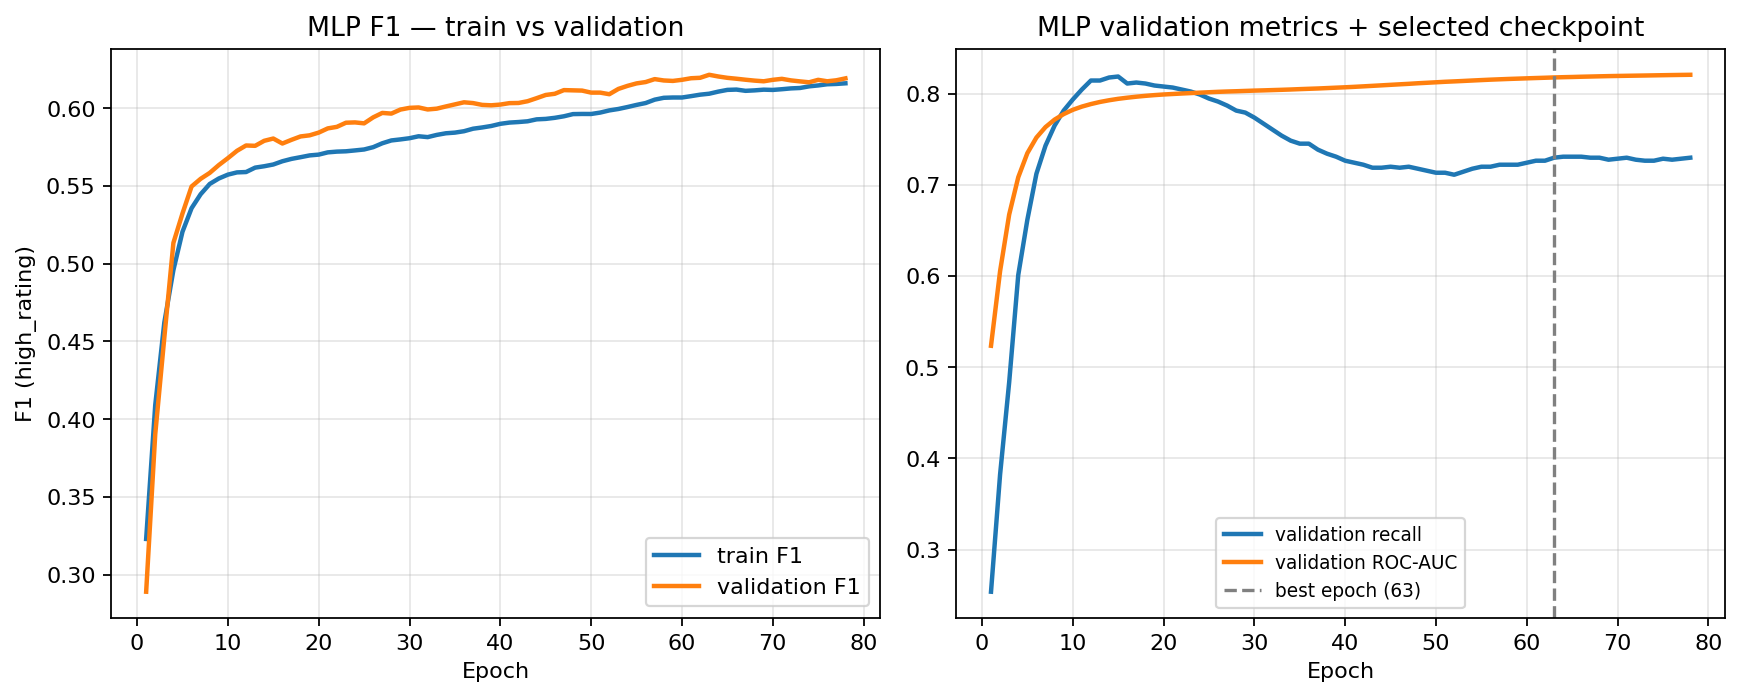
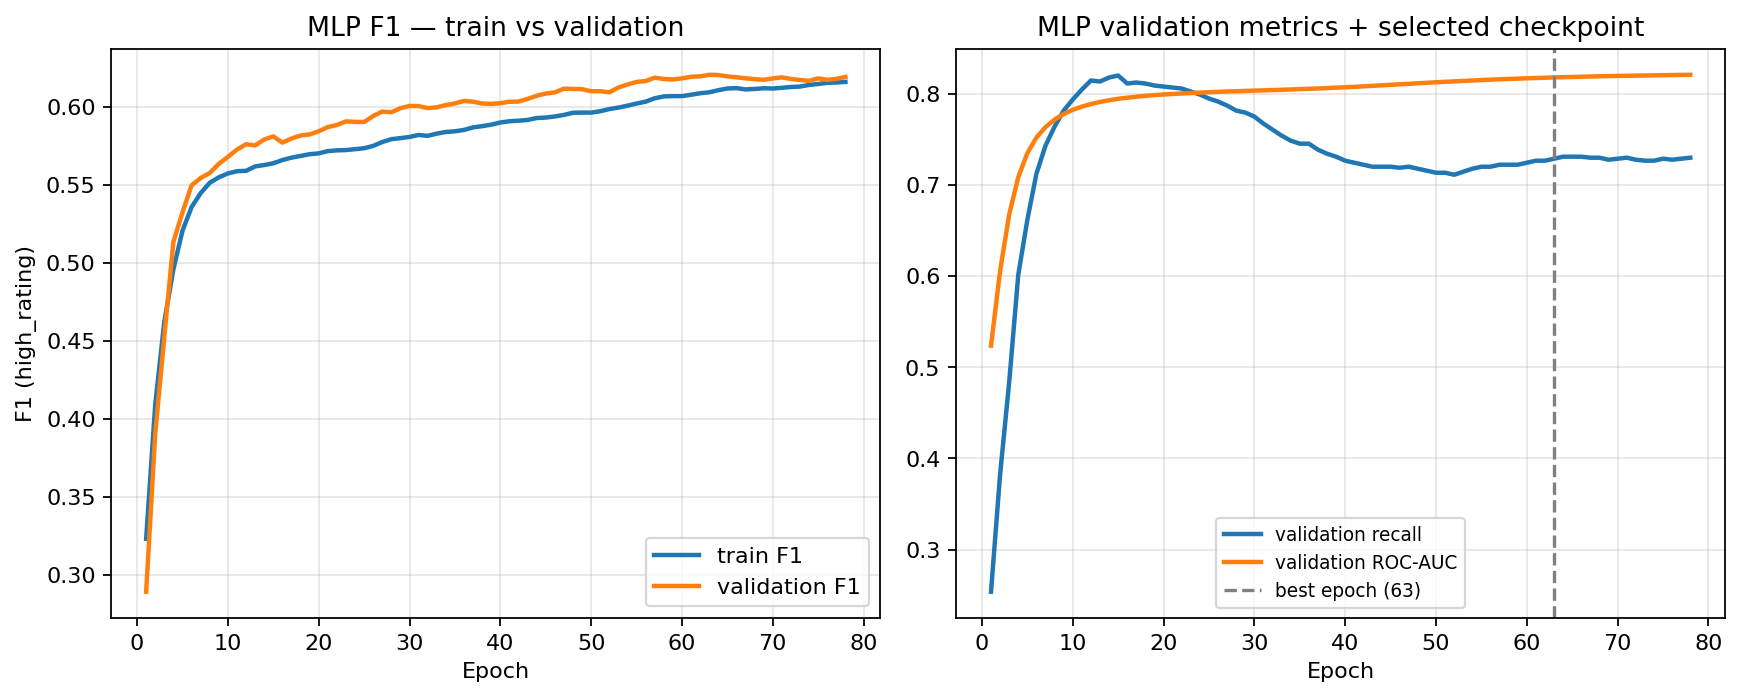
Fix writeup polish and train-only numeric imputation.
Apply training medians to val/test features, refresh metrics, and
remove scaffolding text from the embeddings paragraph.

diff --git a/writeup/CS6320_Assignment6_Jackson.html b/writeup/CS6320_Assignment6_Jackson.html
@@ -248,8 +248,9 @@ prediction-time rules</h3>
 <li><strong>Split first</strong> — stratified random 70% / 15% / 15% by
 game row (unchanged from Assignment 5).</li>
 <li><strong>Imputation</strong> — numeric medians computed on
-<strong>training rows only</strong>, applied to validation/test (via
-<code>build_feature_matrix</code> on each split frame).</li>
+<strong>training rows only</strong>, then applied to validation and test
+through
+<code>build_feature_matrix(..., numeric_medians=train_medians)</code>.</li>
 <li><strong>Scaling</strong> — <code>StandardScaler</code> fit on
 <strong>training</strong> features for logistic regression and MLP;
 trees use median-imputed raw features (scale-invariant).</li>
@@ -260,10 +261,10 @@ columns in <em>X</em>; each game appears in one split only.</li>
 </ol>
 <p><strong>Embeddings:</strong> Not used. Category fields are binary
 flags, not repeated high-cardinality IDs. Numeric fields are not
-identity codes. Sentence for writeup: <em>“Embeddings were not
-appropriate because categories are low-cardinality one-hot flags and
-there are no stable high-cardinality entity IDs; I used scaled numerics
-plus binary category columns instead.”</em></p>
+identity codes. <em>Embeddings were not appropriate because categories
+are low-cardinality one-hot flags and there are no stable
+high-cardinality entity IDs; I used scaled numerics plus binary category
+columns instead.</em></p>
 <h3 id="split-and-audit-evidence">Split and audit evidence</h3>
 <table>
 <thead>
@@ -337,8 +338,10 @@ validation F1</strong> (patience 15; best epoch
 </tbody>
 </table>
 <p>Model selection uses <strong>validation F1</strong> on
-<code>high_rating=1</code>. Test metrics reported once for final
-comparison. No hyperparameter search beyond the fixed configs above.</p>
+<code>high_rating=1</code> for the <strong>MLP checkpoint</strong>
+(early stop). Logistic and GBT use fixed configs; validation metrics
+guide comparison, and test metrics are reported once for final
+reporting. No hyperparameter search beyond the fixed configs above.</p>
 <h3 id="results-table">Results table</h3>
 <table>
 <colgroup>
@@ -382,17 +385,17 @@ comparison. No hyperparameter search beyond the fixed configs above.</p>
 </tr>
 <tr>
 <td><strong>Gradient boosted trees</strong></td>
-<td style="text-align: right;"><strong>0.685</strong></td>
-<td style="text-align: right;">0.624</td>
+<td style="text-align: right;"><strong>0.684</strong></td>
+<td style="text-align: right;">0.623</td>
 <td style="text-align: right;"><strong>0.895</strong></td>
 <td style="text-align: right;"><strong>0.714</strong></td>
-<td style="text-align: right;">0.661</td>
+<td style="text-align: right;">0.660</td>
 <td style="text-align: right;"><strong>0.910</strong></td>
 </tr>
 <tr>
 <td>MLP (early stop, epoch 63)</td>
-<td style="text-align: right;">0.621</td>
-<td style="text-align: right;"><strong>0.730</strong></td>
+<td style="text-align: right;">0.620</td>
+<td style="text-align: right;"><strong>0.729</strong></td>
 <td style="text-align: right;">0.818</td>
 <td style="text-align: right;">0.619</td>
 <td style="text-align: right;"><strong>0.747</strong></td>
@@ -401,7 +404,7 @@ comparison. No hyperparameter search beyond the fixed configs above.</p>
 </tbody>
 </table>
 <p>Validation precision: logistic <strong>0.703</strong>, GBT
-<strong>0.759</strong>, MLP <strong>0.541</strong>. Test accuracy:
+<strong>0.759</strong>, MLP <strong>0.540</strong>. Test accuracy:
 logistic <strong>0.801</strong>, GBT <strong>0.861</strong>, MLP
 <strong>0.759</strong>.</p>
 <figure>
@@ -411,7 +414,9 @@ alt="MLP training curves — validation checkpoint selection" />
 checkpoint selection</figcaption>
 </figure>
 <p><em>Figure 1: MLP train/validation F1 and validation recall/ROC-AUC;
-dashed line = selected checkpoint (epoch 63).</em></p>
+dashed line = selected checkpoint (epoch 63). Validation recall peaks
+early (~epoch 15) then drifts down while F1 keeps improving — epoch 63
+was chosen on validation F1, not peak recall.</em></p>
 <h3 id="model-choice-recommendation">Model-choice recommendation</h3>
 <p><strong>Tabular modeling is justified</strong> for this portfolio
 problem: structured metadata and category flags carry signal well above

diff --git a/scripts/train_model_comparison.py b/scripts/train_model_comparison.py
@@ -26,8 +26,10 @@ from sklearn.preprocessing import StandardScaler
 from bgg_common import (
     DEFAULT_OUTPUT_DIR,
     DEFAULT_PREP_DIR,
+    NUMERIC_METADATA_COLUMNS,
     RANDOM_STATE,
     build_feature_matrix,
+    feature_columns,
     load_prepared_split,
     split_frame,
     write_json,
@@ -188,9 +190,14 @@ def main() -> None:
     val = split_frame(prepared, "validation")
     test = split_frame(prepared, "test")
 
-    x_train, y_train = build_feature_matrix(train)
-    x_val, y_val = build_feature_matrix(val)
-    x_test, y_test = build_feature_matrix(test)
+    train_numeric = train[feature_columns()].copy()
+    for col in NUMERIC_METADATA_COLUMNS:
+        train_numeric[col] = pd.to_numeric(train_numeric[col], errors="coerce")
+    train_medians = train_numeric[NUMERIC_METADATA_COLUMNS].median(numeric_only=True)
+
+    x_train, y_train = build_feature_matrix(train, numeric_medians=train_medians)
+    x_val, y_val = build_feature_matrix(val, numeric_medians=train_medians)
+    x_test, y_test = build_feature_matrix(test, numeric_medians=train_medians)
 
     y_train_np = y_train.to_numpy()
     y_val_np = y_val.to_numpy()

diff --git a/scripts/bgg_common.py b/scripts/bgg_common.py
@@ -146,7 +146,10 @@ def feature_columns() -> list[str]:
     ]
 
 
-def build_feature_matrix(frame: pd.DataFrame) -> tuple[pd.DataFrame, pd.Series]:
+def build_feature_matrix(
+    frame: pd.DataFrame,
+    numeric_medians: pd.Series | None = None,
+) -> tuple[pd.DataFrame, pd.Series]:
     cols = feature_columns()
     missing = [col for col in cols if col not in frame.columns]
     if missing:
@@ -156,7 +159,11 @@ def build_feature_matrix(frame: pd.DataFrame) -> tuple[pd.DataFrame, pd.Series]:
         x_frame[col] = pd.to_numeric(x_frame[col], errors="coerce")
     for col in CATEGORY_COLUMNS:
         x_frame[col] = pd.to_numeric(x_frame[col], errors="coerce").fillna(0).astype(int)
-    medians = x_frame[NUMERIC_METADATA_COLUMNS].median(numeric_only=True)
+    medians = (
+        numeric_medians
+        if numeric_medians is not None
+        else x_frame[NUMERIC_METADATA_COLUMNS].median(numeric_only=True)
+    )
     x_frame[NUMERIC_METADATA_COLUMNS] = x_frame[NUMERIC_METADATA_COLUMNS].fillna(medians)
     x_frame["description_word_count"] = x_frame["description_word_count"].fillna(0)
     x_frame["name_char_len"] = x_frame["name_char_len"].fillna(0)

diff --git a/writeup/CS6320_Assignment6_Jackson.md b/writeup/CS6320_Assignment6_Jackson.md
@@ -28,12 +28,12 @@ Features follow the Assignment 4 charter and Assignment 5 manifest: rating field
 ### Preprocessing and prediction-time rules
 
 1. **Split first** — stratified random 70% / 15% / 15% by game row (unchanged from Assignment 5).
-2. **Imputation** — numeric medians computed on **training rows only**, applied to validation/test (via `build_feature_matrix` on each split frame).
+2. **Imputation** — numeric medians computed on **training rows only**, then applied to validation and test through `build_feature_matrix(..., numeric_medians=train_medians)`.
 3. **Scaling** — `StandardScaler` fit on **training** features for logistic regression and MLP; trees use median-imputed raw features (scale-invariant).
 4. **Categories** — eight `Cat:*` flags kept as 0/1 integers (low cardinality).
 5. **Leakage** — no rating-derived or post-hoc demand columns in *X*; each game appears in one split only.
 
-**Embeddings:** Not used. Category fields are binary flags, not repeated high-cardinality IDs. Numeric fields are not identity codes. Sentence for writeup: *“Embeddings were not appropriate because categories are low-cardinality one-hot flags and there are no stable high-cardinality entity IDs; I used scaled numerics plus binary category columns instead.”*
+**Embeddings:** Not used. Category fields are binary flags, not repeated high-cardinality IDs. Numeric fields are not identity codes. *Embeddings were not appropriate because categories are low-cardinality one-hot flags and there are no stable high-cardinality entity IDs; I used scaled numerics plus binary category columns instead.*
 
 ### Split and audit evidence
 
@@ -54,7 +54,7 @@ Positive rates are stable across splits (within ~1.5 pp). Audit tables: `prep/bg
 | Gradient boosted trees | Strong tabular benchmark | `HistGradientBoostingClassifier`, depth 6, lr 0.08, 300 trees |
 | MLP | Neural tabular | 64→32, ReLU, dropout 0.2, Adam (wd=1e-4), **BCE `pos_weight`** for imbalance, **early stop on validation F1** (patience 15; best epoch **63**) |
 
-Model selection uses **validation F1** on `high_rating=1`. Test metrics reported once for final comparison. No hyperparameter search beyond the fixed configs above.
+Model selection uses **validation F1** on `high_rating=1` for the **MLP checkpoint** (early stop). Logistic and GBT use fixed configs; validation metrics guide comparison, and test metrics are reported once for final reporting. No hyperparameter search beyond the fixed configs above.
 
 ### Results table
 
@@ -62,14 +62,14 @@ Model selection uses **validation F1** on `high_rating=1`. Test metrics reported
 | --- | ---: | ---: | ---: | ---: | ---: | ---: |
 | Majority class | 0.000 | 0.000 | 0.500 | 0.000 | 0.000 | 0.500 |
 | Logistic regression | 0.527 | 0.422 | 0.815 | 0.544 | 0.454 | 0.832 |
-| **Gradient boosted trees** | **0.685** | 0.624 | **0.895** | **0.714** | 0.661 | **0.910** |
-| MLP (early stop, epoch 63) | 0.621 | **0.730** | 0.818 | 0.619 | **0.747** | 0.830 |
+| **Gradient boosted trees** | **0.684** | 0.623 | **0.895** | **0.714** | 0.660 | **0.910** |
+| MLP (early stop, epoch 63) | 0.620 | **0.729** | 0.818 | 0.619 | **0.747** | 0.830 |
 
-Validation precision: logistic **0.703**, GBT **0.759**, MLP **0.541**. Test accuracy: logistic **0.801**, GBT **0.861**, MLP **0.759**.
+Validation precision: logistic **0.703**, GBT **0.759**, MLP **0.540**. Test accuracy: logistic **0.801**, GBT **0.861**, MLP **0.759**.
 
 ![MLP training curves — validation checkpoint selection](mlp_training_curves.png)
 
-*Figure 1: MLP train/validation F1 and validation recall/ROC-AUC; dashed line = selected checkpoint (epoch 63).*
+*Figure 1: MLP train/validation F1 and validation recall/ROC-AUC; dashed line = selected checkpoint (epoch 63). Validation recall peaks early (~epoch 15) then drifts down while F1 keeps improving — epoch 63 was chosen on validation F1, not peak recall.*
 
 ### Model-choice recommendation
 